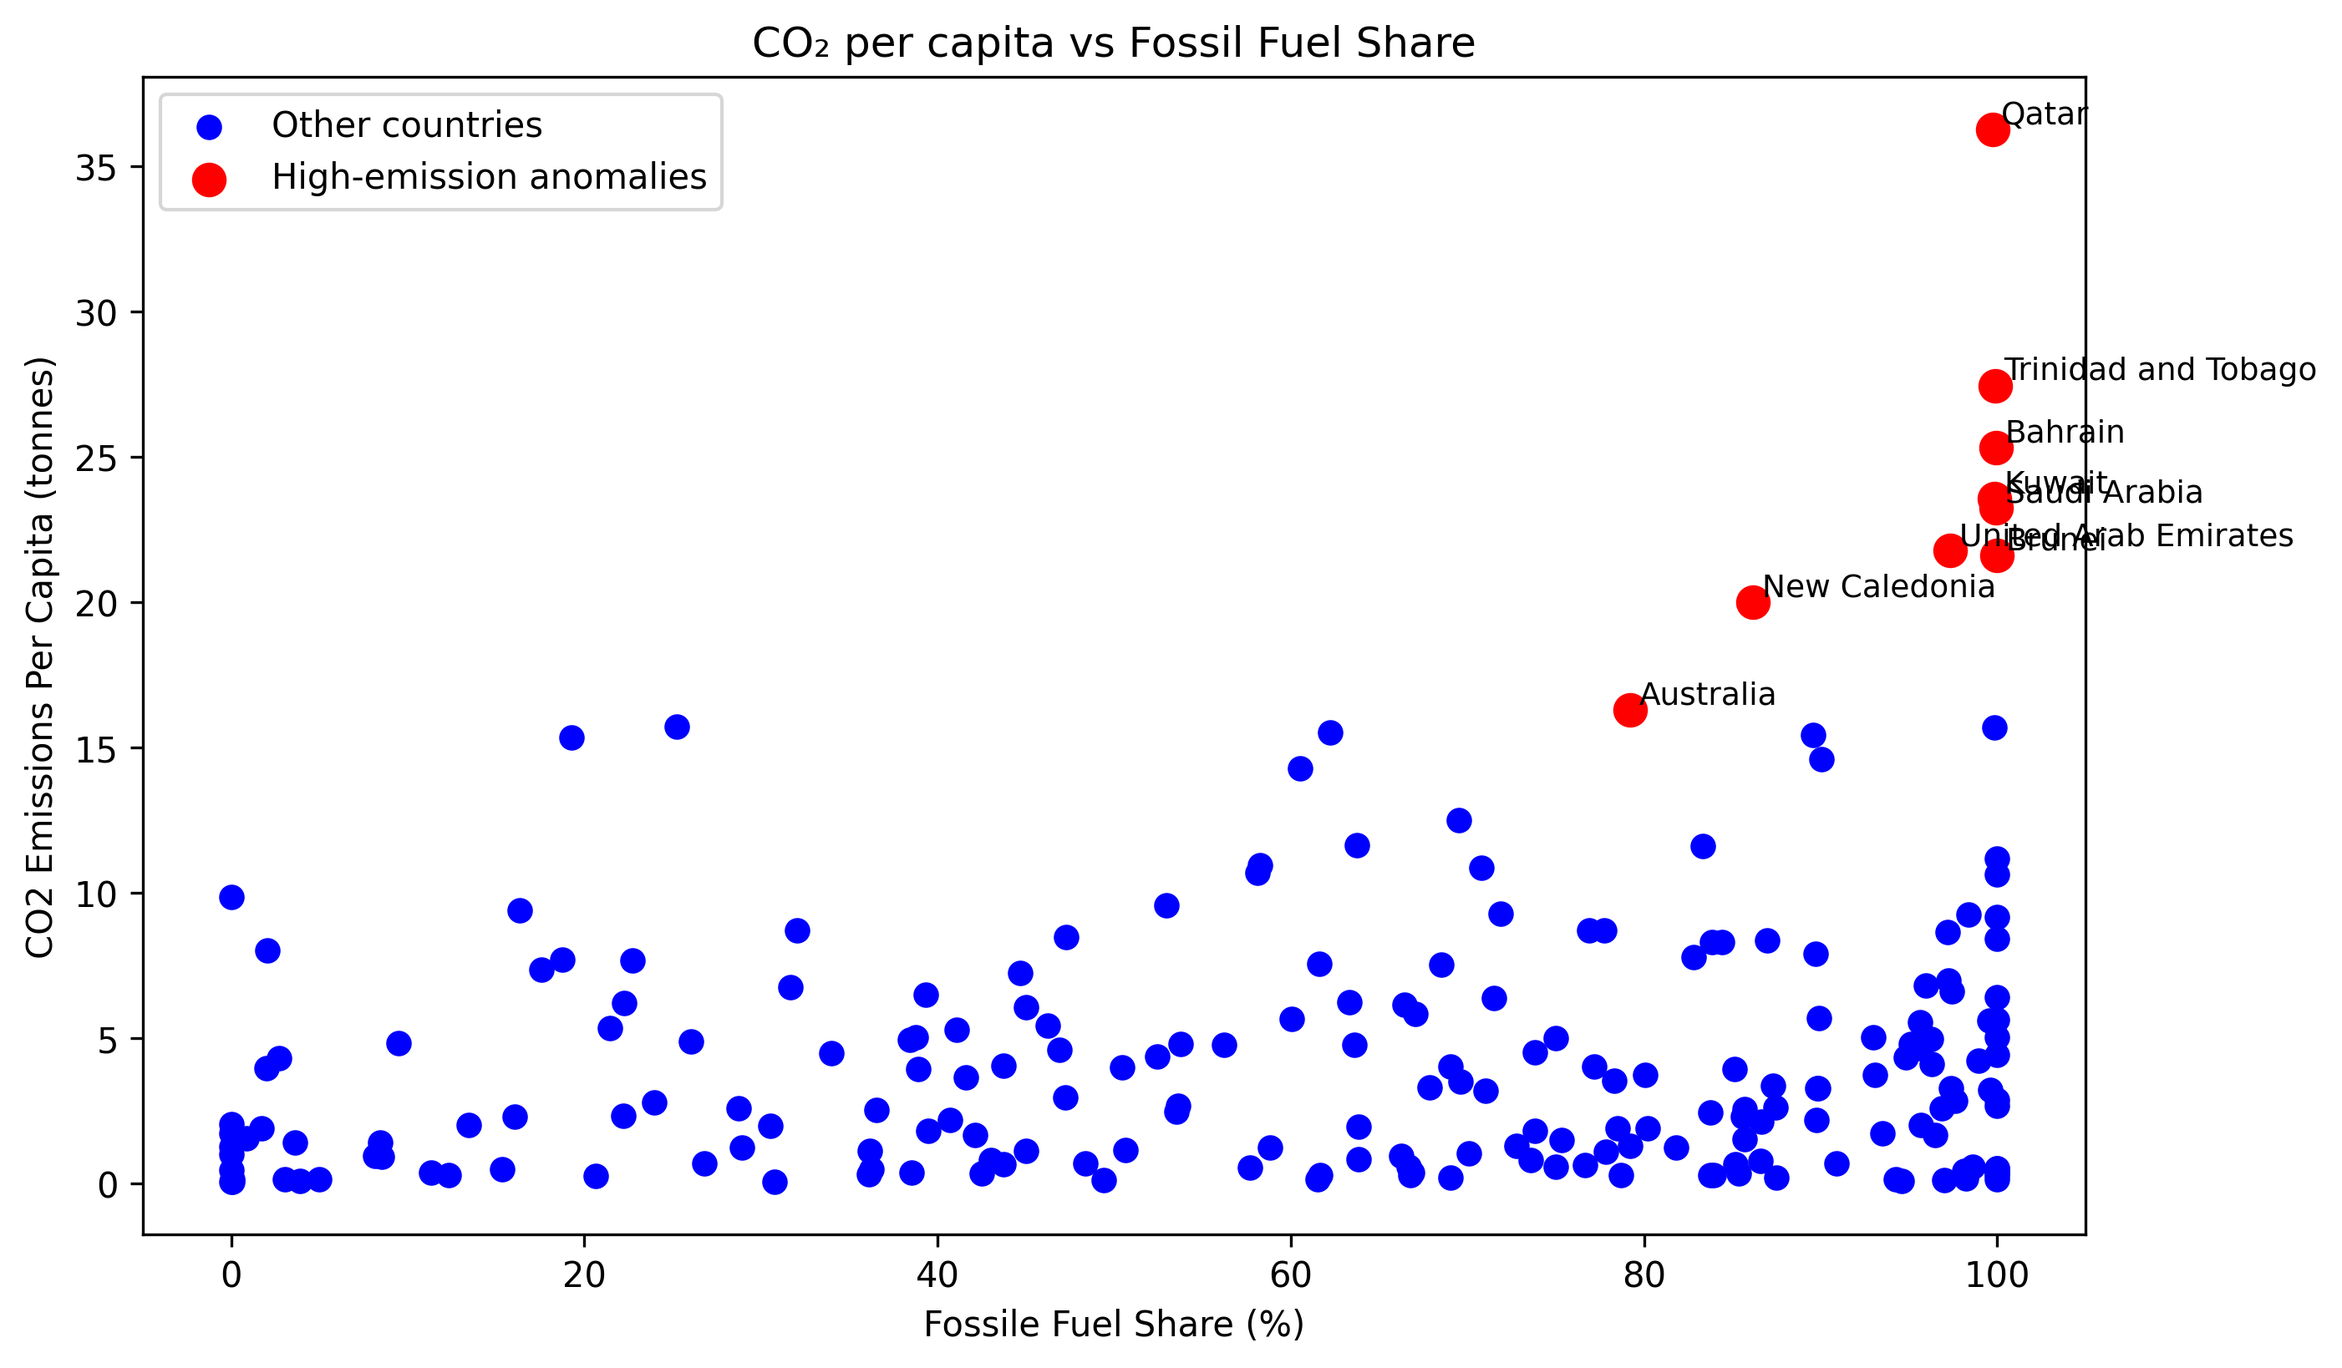
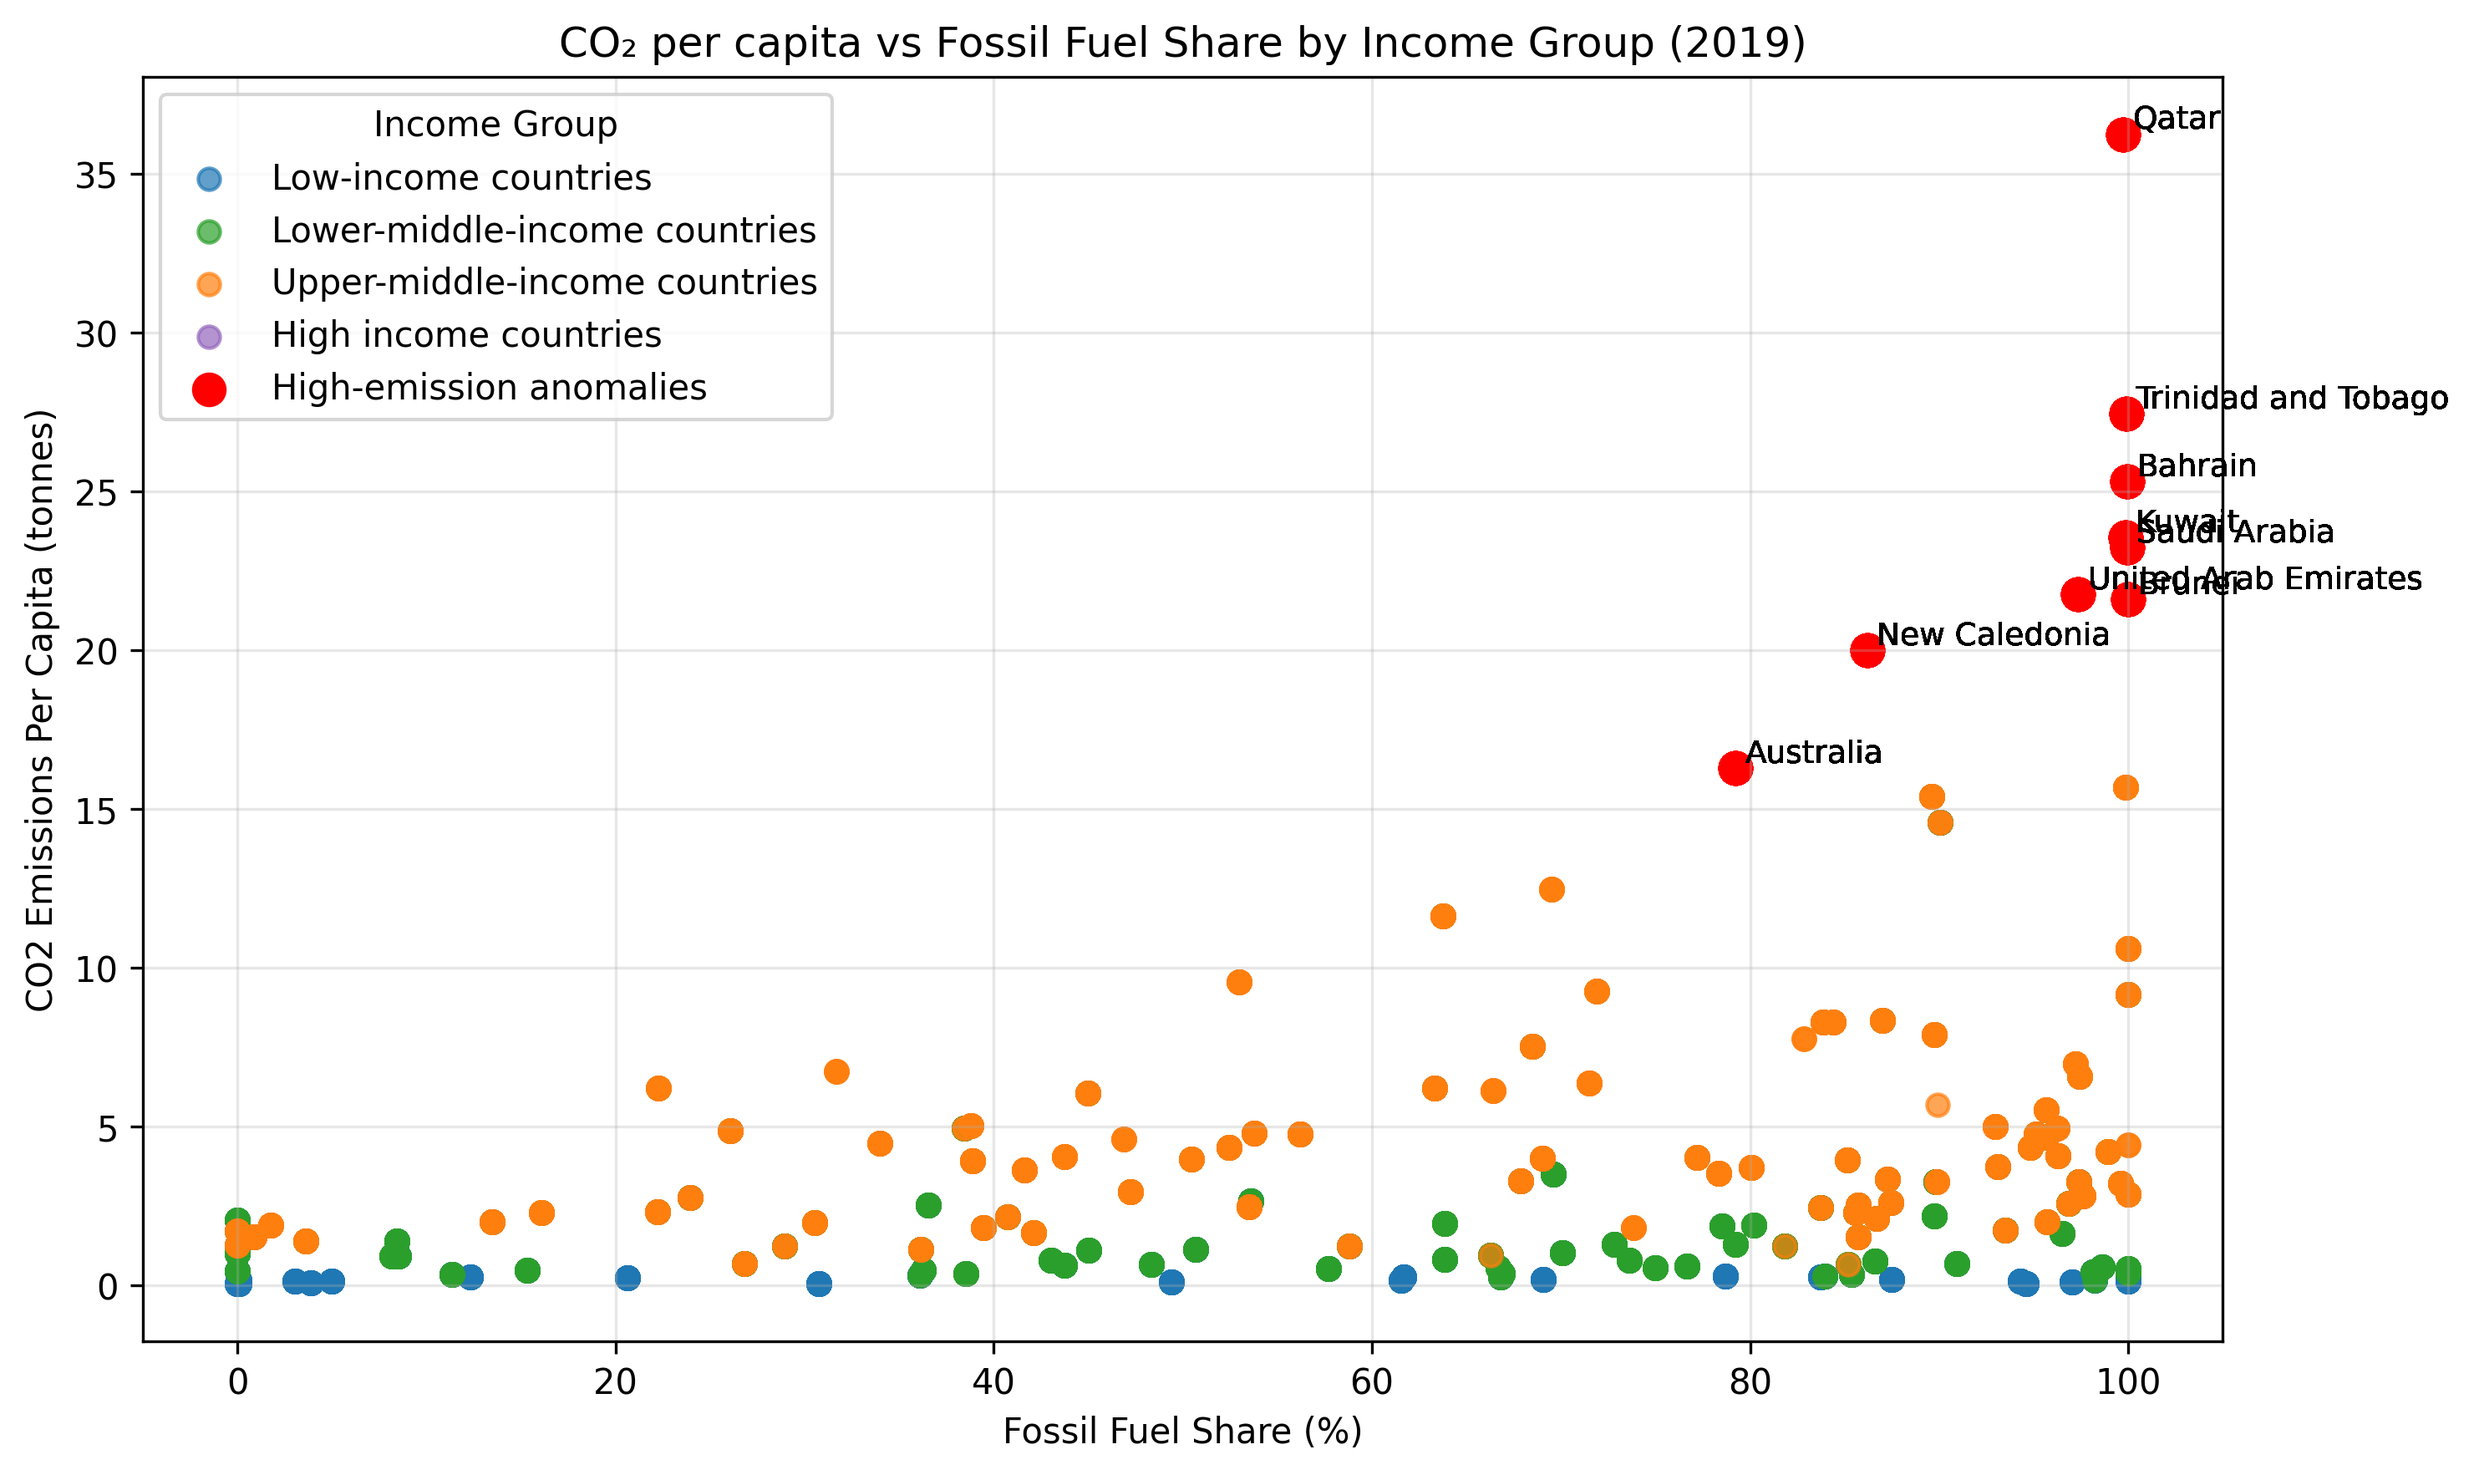
feat: added income group as a variable for scatter plot

diff --git a/business_case.py b/business_case.py
@@ -195,6 +195,11 @@ def main():
     print(electricity_data.head())  # display first few rows of the dataset
     print(type(electricity_data))
 
+    #read income csv dataset
+    income_data = pd.read_csv('datasets/world-bank-income-groups.csv')
+    print(income_data.head())  # display first few rows of the dataset
+    print(type(income_data))
+
 
     #~~~~~~~~~~~~~~~~~~~~~~~~~~~~
     # data wrangling and cleaning
@@ -322,8 +327,23 @@ def main():
     co2_2019 = co2_data[co2_data['Year'] == 2019]
     elec_2019 = electricity_data[electricity_data['Year'] == 2019]
 
+    # merge both variables into one dataframe
     merged_2019 = co2_2019.merge(elec_2019, on=["Entity", "Year"], how="inner")
 
+    # add income group dataset
+    merged_2019 = merged_2019.merge(
+        income_data[["Entity", "World Bank's income classification"]],
+        on = 'Entity',
+        how = 'left'
+    )
+
+    # colour code countries by income group
+    income_colours = {
+        'Low-income countries': '#1f77b4',
+        'Lower-middle-income countries': '#2ca02c',
+        'Upper-middle-income countries': '#ff7f0e',
+        'High income countries': '#9467bd'
+    }
 
     # find the outlier within the graphs
     merged_2019['co2_z'] = (merged_2019['Annual CO₂ emissions (per capita)'] - 
@@ -336,14 +356,22 @@ def main():
     # create and display the graph
     plt.figure(figsize=(10,6))
 
-    # normal points
-    plt.scatter(
-        merged_2019['Fossil fuels - % electricity'],
-        merged_2019['Annual CO₂ emissions (per capita)'],
-        color='blue',
-        s=40,
-        label='Other countries'
-    )
+    for income_group, colour in income_colours.items():
+        subset = merged_2019[
+            (merged_2019["World Bank's income classification"] == income_group) &
+            (merged_2019["co2_z"])
+        ]
+
+
+        plt.scatter(
+            subset['Fossil fuels - % electricity'],
+            subset['Annual CO₂ emissions (per capita)'],
+            color = colour,
+            s=40,
+            alpha = 0.7,
+            label = income_group
+        )
+
 
     # anomalies
     plt.scatter(
@@ -355,35 +383,6 @@ def main():
     )
 
 
-    '''
-    # Define x and y
-    x = merged_2019['Fossil fuels - % electricity']
-    y = merged_2019['Annual CO₂ emissions (per capita)']
-
-    # Remove any zero or negative y-values (log cannot handle them)
-    mask = y > 0
-    x = x[mask]
-    y = y[mask]
-
-    # Fit exponential model: log(y) = m*x + c
-    log_y = np.log(y)
-    m, c = np.polyfit(x, log_y, 1)
-
-    # Convert back to exponential form
-    y_pred = np.exp(m * x + c)
-
-    # Plot exponential curve
-    x_sorted = np.sort(x)
-    plt.plot(x_sorted, np.exp(m * x_sorted + c),
-            color='black', linewidth=2, label='Exponential trend')
-    
-    plt.text(
-    min(x)+5,
-    max(y)*0.9,
-    f"y = exp({m:.3f}x + {c:.3f})",
-    fontsize=10
-    )'''
-
     # print out the outlier countries
     for _, row in outliers.iterrows():
         plt.text(
@@ -393,10 +392,12 @@ def main():
             fontsize=9
         )
 
-    plt.xlabel('Fossile Fuel Share (%)')
+    plt.xlabel('Fossil Fuel Share (%)')
     plt.ylabel('CO2 Emissions Per Capita (tonnes)')
-    plt.title('CO₂ per capita vs Fossil Fuel Share')
-    plt.legend()
+    plt.title('CO₂ per capita vs Fossil Fuel Share by Income Group (2019)')
+    plt.legend(title='Income Group')
+    plt.grid(True, alpha=0.3)
+    plt.tight_layout()
     plt.savefig("my_scatter_plot.png", dpi=300, bbox_inches='tight')
     plt.show()
 
